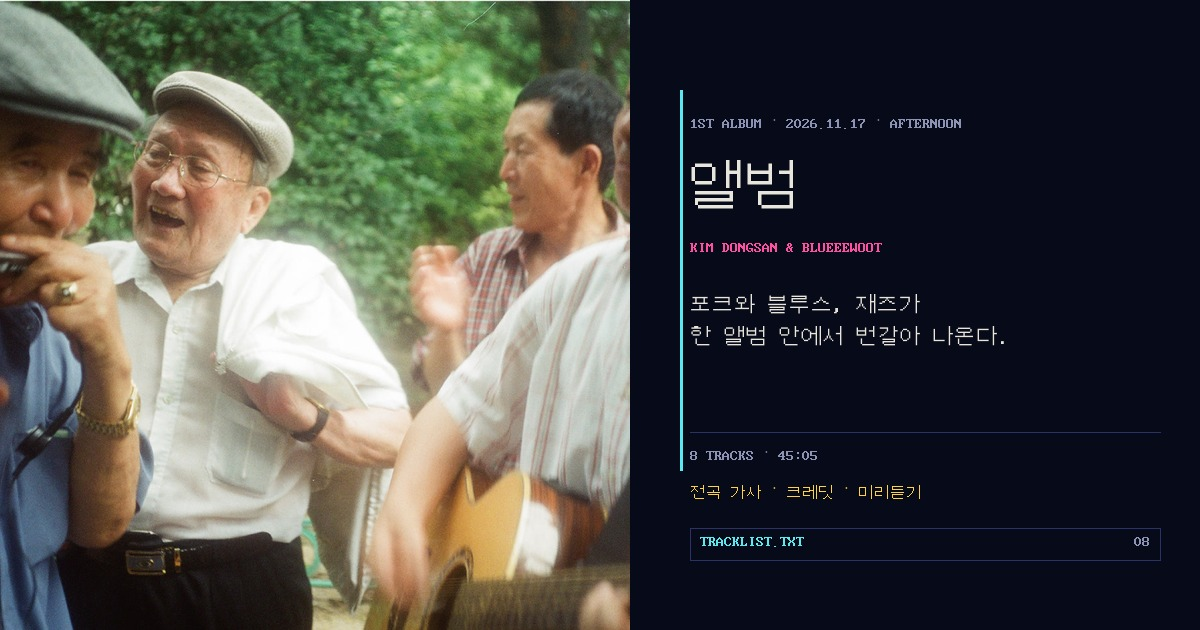
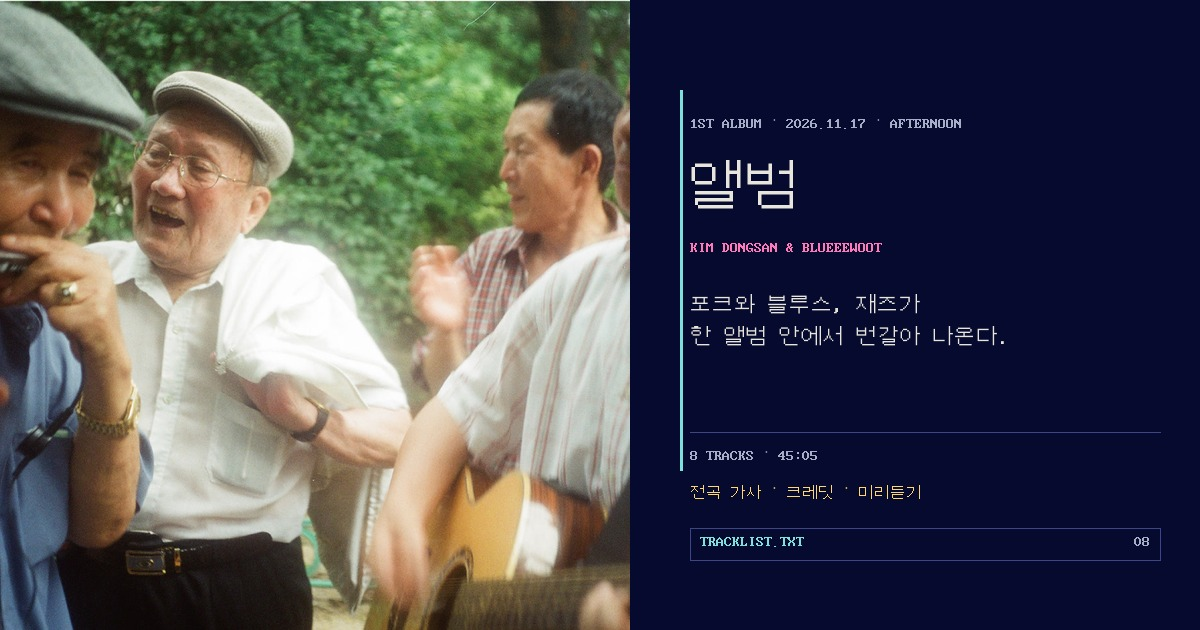
style(theme): PC통신 팔레트를 VT 화면 기준으로 다시 잡는다
기존 네이비는 거의 검정(#070a18)이었고, 강조색은 ANSI 원색보다도 쨍한
네온이었다. 새롬 데이타맨 98로 나우누리에 접속한 화면에서 픽셀을 뽑아
보니 배경은 #010080의 순수 네이비, 본문은 흰색, 강조는 VGA 16색 그대로였다.
레퍼런스의 hue만 가져오고 채도는 낮춘다.

- 배경 #050a2e / 패널 #0b1140 / 패널딥 #080d36 — VT 네이비의 hue 유지
- signal #7ee0dc (h200→h192), kitsch #ff79b8, ticket #ffd76b — 채도만 하향
- muted #8c93b5→#a6adc7 (6.5:1→8.7:1), 138곳의 보조 텍스트가 함께 개선
- line을 두 단계로 분리. line #3d4589은 표 규칙선, line-strong #545cab은
  창 크롬. 1px 선을 전부 3:1로 올리면 표가 와이어프레임처럼 보인다.

가독성 문제는 대비율이 아니라 청록이 글자 면적으로 쓰인 데서 왔다.
VT 화면도 크롬은 흰 글자였으므로 역할을 나눈다: 프롬프트 경로·창 제목·
BIO.TXT 같은 파일명 라벨은 ink로, 캐럿·날짜·곡번호·now_playing 같은
상태 표시만 signal로 남긴다.

홈 상단 티커는 화면 폭 전체를 고휘도 노랑으로 채우고 있었다. 채움을 걷고
ticket은 글자색으로만 쓴다.

아이콘·파비콘·OG 카드 7장도 같은 토큰으로 재생성.

Changed region(s): [[0.555, 0.1508, 0.8017, 0.8143], [0.555, 0.8444, 0.6783, 0.9048], [0.925, 0.8444, 0.9558, 0.8746]]

diff --git a/app/globals.css b/app/globals.css
@@ -5,26 +5,34 @@
      this instead of defaulting to light. */
   color-scheme: dark;
 
-  /* surfaces — 1990s VGA navy */
-  --void: #070a18;
-  --panel: #0e1330;
-  --panel-deep: #0a0f26;
+  /* surfaces — 1990s VGA navy. The hue follows the VT terminal blue
+     (#010080) sampled from a NowNuri session; only the lightness is pulled
+     down so full-width body text still sits on a calm field. */
+  --void: #050a2e;
+  --panel: #0b1140;
+  --panel-deep: #080d36;
 
   /* text */
   --ink: #e8e6dc;
-  --muted: #8c93b5;
+  --muted: #a6adc7;
 
-  /* bars */
-  --line: #2b3268;
+  /* bars — two weights. --line draws table rules, where a 3:1 stroke would
+     read as a wireframe; --line-strong draws window chrome, which has to be
+     visible as a frame. */
+  --line: #3d4589;
+  --line-strong: #545cab;
 
-  /* accents */
-  --signal: #5be9f0;
-  --kitsch: #ff4fa3;
-  --ticket: #ffd23f;
+  /* accents — ANSI hues, chroma toned down. The raw VGA primaries
+     (#55ffff / #ff55ff / #ffff55) were sharper than what shipped, and
+     cyan covers whole lines of prompt text, so saturation is lowered
+     while the hue stays at the terminal's. */
+  --signal: #7ee0dc;
+  --kitsch: #ff79b8;
+  --ticket: #ffd76b;
 
   /* one inverted screen (press bios, lyric sheets) */
   --screen: #e8e6dc;
-  --screen-ink: #070a18;
+  --screen-ink: #050a2e;
 }
 
 @theme inline {
@@ -34,6 +42,7 @@
   --color-ink: var(--ink);
   --color-muted: var(--muted);
   --color-line: var(--line);
+  --color-line-strong: var(--line-strong);
   --color-signal: var(--signal);
   --color-kitsch: var(--kitsch);
   --color-ticket: var(--ticket);
@@ -170,7 +179,7 @@
   /* --- window chrome --- */
 
   .win {
-    border: 1px solid var(--line);
+    border: 1px solid var(--line-strong);
     background: var(--panel);
   }
 
@@ -179,7 +188,7 @@
     align-items: center;
     justify-content: space-between;
     gap: 16px;
-    border-bottom: 1px solid var(--line);
+    border-bottom: 1px solid var(--line-strong);
     padding: 2px 8px;
   }
 
@@ -315,6 +324,7 @@
   }
 
   .one-sheet .border-line,
+  .one-sheet .border-line-strong,
   .one-sheet .border-ink,
   .one-sheet .border-b,
   .one-sheet .border-y,
@@ -354,6 +364,7 @@
     --ink: #111111;
     --muted: #4a4a4a;
     --line: #b8b8b8;
+    --line-strong: #8a8a8a;
     --signal: #0b5d61;
     --kitsch: #9c0a53;
     --ticket: #6b5200;
@@ -391,7 +402,7 @@
   }
 
   .win {
-    border-color: var(--line);
+    border-color: var(--line-strong);
   }
 
   .btn-ticket,

diff --git a/app/[locale]/page.tsx b/app/[locale]/page.tsx
@@ -120,8 +120,11 @@ export default async function HomePage({
         </div>
       </section>
 
-      {/* Ticker */}
-      <div className="ticker overflow-hidden border-y border-ticket bg-ticket py-1 text-void">
+      {/* Ticker — a filled yellow band put a full-width high-luminance
+          surface above every page, which is what read as glaring. The VT
+          screen never filled a band like this: the colour sat in the text.
+          So the fill is gone and the amber stays in the type. */}
+      <div className="ticker overflow-hidden border-y border-line-strong bg-panel-deep py-1">
         <div className="ticker-track">
           {[0, 1].map((copy) => (
             <div key={copy} className="flex shrink-0" aria-hidden={copy === 1}>
@@ -131,7 +134,9 @@ export default async function HomePage({
                   className="mono flex items-center whitespace-nowrap px-4"
                 >
                   {item}
-                  <span className="ml-4">▮</span>
+                  <span aria-hidden="true" className="ml-4 text-ticket">
+                    ▮
+                  </span>
                 </span>
               ))}
             </div>
@@ -251,7 +256,7 @@ export default async function HomePage({
       <section className="mx-auto max-w-6xl px-5 pb-12 md:px-8 md:pb-16">
         <div className="border border-line">
           <div className="win-bar bg-panel-deep">
-            <span className="mono text-signal">SHOW.EXE</span>
+            <span className="mono text-ink">SHOW.EXE</span>
             <span className="mono text-muted">2026.12.04</span>
           </div>
           <div className="grid gap-8 p-5 md:grid-cols-[1fr_0.9fr] md:items-center md:p-8">

diff --git a/app/[locale]/contact/page.tsx b/app/[locale]/contact/page.tsx
@@ -49,7 +49,7 @@ export default async function ContactPage({
 
       <div className="mt-8 grid border border-line md:grid-cols-3">
         <section className="border-b border-line p-4 md:border-b-0 md:border-r">
-          <p className="mono text-signal">{dict.contact.booking}</p>
+          <p className="mono text-ink">{dict.contact.booking}</p>
           <h2 className="text-mid mt-2 leading-tight">
             {dict.contact.bookingNote}
           </h2>
@@ -68,7 +68,7 @@ export default async function ContactPage({
         </section>
 
         <section className="border-b border-line p-4 md:border-b-0 md:border-r">
-          <p className="mono text-signal">{dict.contact.artist}</p>
+          <p className="mono text-ink">{dict.contact.artist}</p>
           <h2 className="text-mid mt-2 leading-tight">
             {SITE.instagramHandle}
           </h2>
@@ -111,7 +111,7 @@ export default async function ContactPage({
         </section>
 
         <section className="p-4">
-          <p className="mono text-signal">{dict.contact.shop}</p>
+          <p className="mono text-ink">{dict.contact.shop}</p>
           <h2 className="text-mid mt-2 leading-tight">
             {t(locale, {
               ko: SITE.longPlayer.name,
@@ -173,7 +173,7 @@ export default async function ContactPage({
 
       <section className="mt-10 grid gap-8 border-t border-line pt-6 md:grid-cols-[0.8fr_1.2fr] md:gap-10">
         <div>
-          <p className="mono text-signal">{dict.contact.tech}</p>
+          <p className="mono text-ink">{dict.contact.tech}</p>
           <h2 className="text-mid mt-2 md:text-head">{dict.live.techTitle}</h2>
         </div>
         <div>

diff --git a/app/[locale]/press/page.tsx b/app/[locale]/press/page.tsx
@@ -53,7 +53,7 @@ export default async function PressPage({
         <Prompt path="PRESS" label={dict.press.pitchCmd} />
         <div className="mt-4 grid gap-8 md:grid-cols-[0.72fr_1.28fr] md:gap-10">
           <div>
-            <p className="mono text-signal">PITCH.TXT</p>
+            <p className="mono text-ink">PITCH.TXT</p>
             <h2 className="text-mid mt-2 leading-tight">
               {dict.press.pitchTitle}
             </h2>
@@ -71,7 +71,7 @@ export default async function PressPage({
           />
         </div>
         <div className="mt-8 border border-line p-4 md:p-5">
-          <p className="mono text-signal">{dict.press.factTitle}</p>
+          <p className="mono text-ink">{dict.press.factTitle}</p>
           <ul className="longform mt-3 space-y-2 text-muted">
             {PRESS_NOTE[locale].facts.map((fact) => (
               <li key={fact}>{fact}</li>
@@ -82,7 +82,7 @@ export default async function PressPage({
 
       <section className="mt-8 grid gap-8 border-t border-line pt-6 md:grid-cols-[0.72fr_1.28fr] md:gap-10">
         <div>
-          <p className="mono text-signal">BIO.TXT</p>
+          <p className="mono text-ink">BIO.TXT</p>
           <h2 className="text-mid mt-2 leading-tight">
             {dict.press.bioTitle}
           </h2>

diff --git a/components/win.tsx b/components/win.tsx
@@ -16,7 +16,7 @@ export function Win({
   return (
     <div className={`win ${className}`}>
       <div className="win-bar">
-        <span className="mono text-signal">{label}</span>
+        <span className="mono text-ink">{label}</span>
         <span className="mono text-muted">{right}</span>
       </div>
       <div className={`win-body ${bodyClassName}`}>{children}</div>
@@ -25,9 +25,14 @@ export function Win({
 }
 
 export function Prompt({ path, label }: { path: string; label: string }) {
+  // The whole line used to be cyan. A terminal prompt is white text; the
+  // colour lives in the caret alone, which is what an ANSI screen did and
+  // what keeps a full line of 16px text from vibrating.
   return (
-    <p className="mono text-muted">
-      <span className="text-signal">C:\BD\{path}&gt;</span> {label}
+    <p className="mono text-ink">
+      C:\BD\{path}
+      <span className="text-signal">&gt;</span>{" "}
+      <span className="text-muted">{label}</span>
     </p>
   );
 }

diff --git a/app/[locale]/live/page.tsx b/app/[locale]/live/page.tsx
@@ -149,7 +149,7 @@ export default async function LivePage({
 
       <section className="mt-10 grid gap-8 md:grid-cols-2 md:gap-10">
         <div>
-          <p className="mono text-signal">{dict.live.cast}</p>
+          <p className="mono text-ink">{dict.live.cast}</p>
           <ul className="longform mt-2 space-y-1 border-t border-line pt-3">
             {(locale === "ko" ? SHOW_DETAILS.castKo : SHOW_DETAILS.castEn).map(
               (line) => (
@@ -159,7 +159,7 @@ export default async function LivePage({
           </ul>
         </div>
         <div>
-          <p className="mono text-signal">{dict.live.notes}</p>
+          <p className="mono text-ink">{dict.live.notes}</p>
           <p className="longform mt-2 border-t border-line pt-3 text-muted">
             {t(locale, { ko: featured.note, en: featured.noteEn })}
           </p>

diff --git a/app/[locale]/album/page.tsx b/app/[locale]/album/page.tsx
@@ -198,7 +198,7 @@ export default async function AlbumPage({
               key={group.group}
               className="border-b border-line px-4 py-4 md:odd:border-r"
             >
-              <p className="mono text-signal">{group.group}</p>
+              <p className="mono text-ink">{group.group}</p>
               <ul className="longform mt-2 space-y-1 text-muted">
                 {(locale === "ko" ? group.ko : group.en).map((credit) => (
                   <li key={credit}>{credit}</li>

diff --git a/components/site-header.tsx b/components/site-header.tsx
@@ -133,7 +133,7 @@ export function SiteHeader({
         <div className="fixed inset-x-0 top-11 bottom-0 z-40 overflow-y-auto bg-void px-5 py-5 md:hidden">
           <nav className="win">
             <div className="win-bar">
-              <span className="mono text-signal">MENU.TXT</span>
+              <span className="mono text-ink">MENU.TXT</span>
               <span className="mono text-muted">06</span>
             </div>
             <div className="divide-y divide-line">

diff --git a/components/not-found-screen.tsx b/components/not-found-screen.tsx
@@ -10,7 +10,9 @@ import { SITE } from "@/data/site";
 export function NotFoundScreen() {
   return (
     <div className="mx-auto max-w-3xl px-5 py-16 md:px-8">
-      <p className="mono text-signal">C:\BD&gt; error 404</p>
+      <p className="mono text-ink">
+        C:\BD<span className="text-signal">&gt;</span> error 404
+      </p>
       <h1 className="text-head mt-4 md:text-hero">
         파일을 찾을 수 없습니다
       </h1>

diff --git a/app/[locale]/about/page.tsx b/app/[locale]/about/page.tsx
@@ -61,7 +61,7 @@ export default async function AboutPage({
       </p>
 
       <div className="mt-8 grid gap-8 border-t border-line pt-6 md:grid-cols-[160px_1fr] md:gap-10">
-        <p className="mono text-signal">BIO.TXT</p>
+        <p className="mono text-ink">BIO.TXT</p>
         <div className="space-y-5">
           {bio.split("\n\n").map((paragraph) => (
             <p key={paragraph.slice(0, 24)} className="longform">

diff --git a/components/copy-bio.tsx b/components/copy-bio.tsx
@@ -28,7 +28,7 @@ export function CopyBio({
       {bios.map((bio, index) => (
         <div key={bio.label} className="border border-line">
           <div className="win-bar">
-            <span className="mono text-signal">{bio.label}.TXT</span>
+            <span className="mono text-ink">{bio.label}.TXT</span>
             <button
               type="button"
               onClick={() => copy(bio.text, index)}

diff --git a/components/track-list.tsx b/components/track-list.tsx
@@ -35,7 +35,7 @@ export function TrackList({
   return (
     <div className="border border-line bg-panel">
       <div className="win-bar">
-        <span className="mono text-signal">TRACKLIST</span>
+        <span className="mono text-ink">TRACKLIST</span>
         <span className="mono text-muted">08 FILES</span>
       </div>
       <div>
